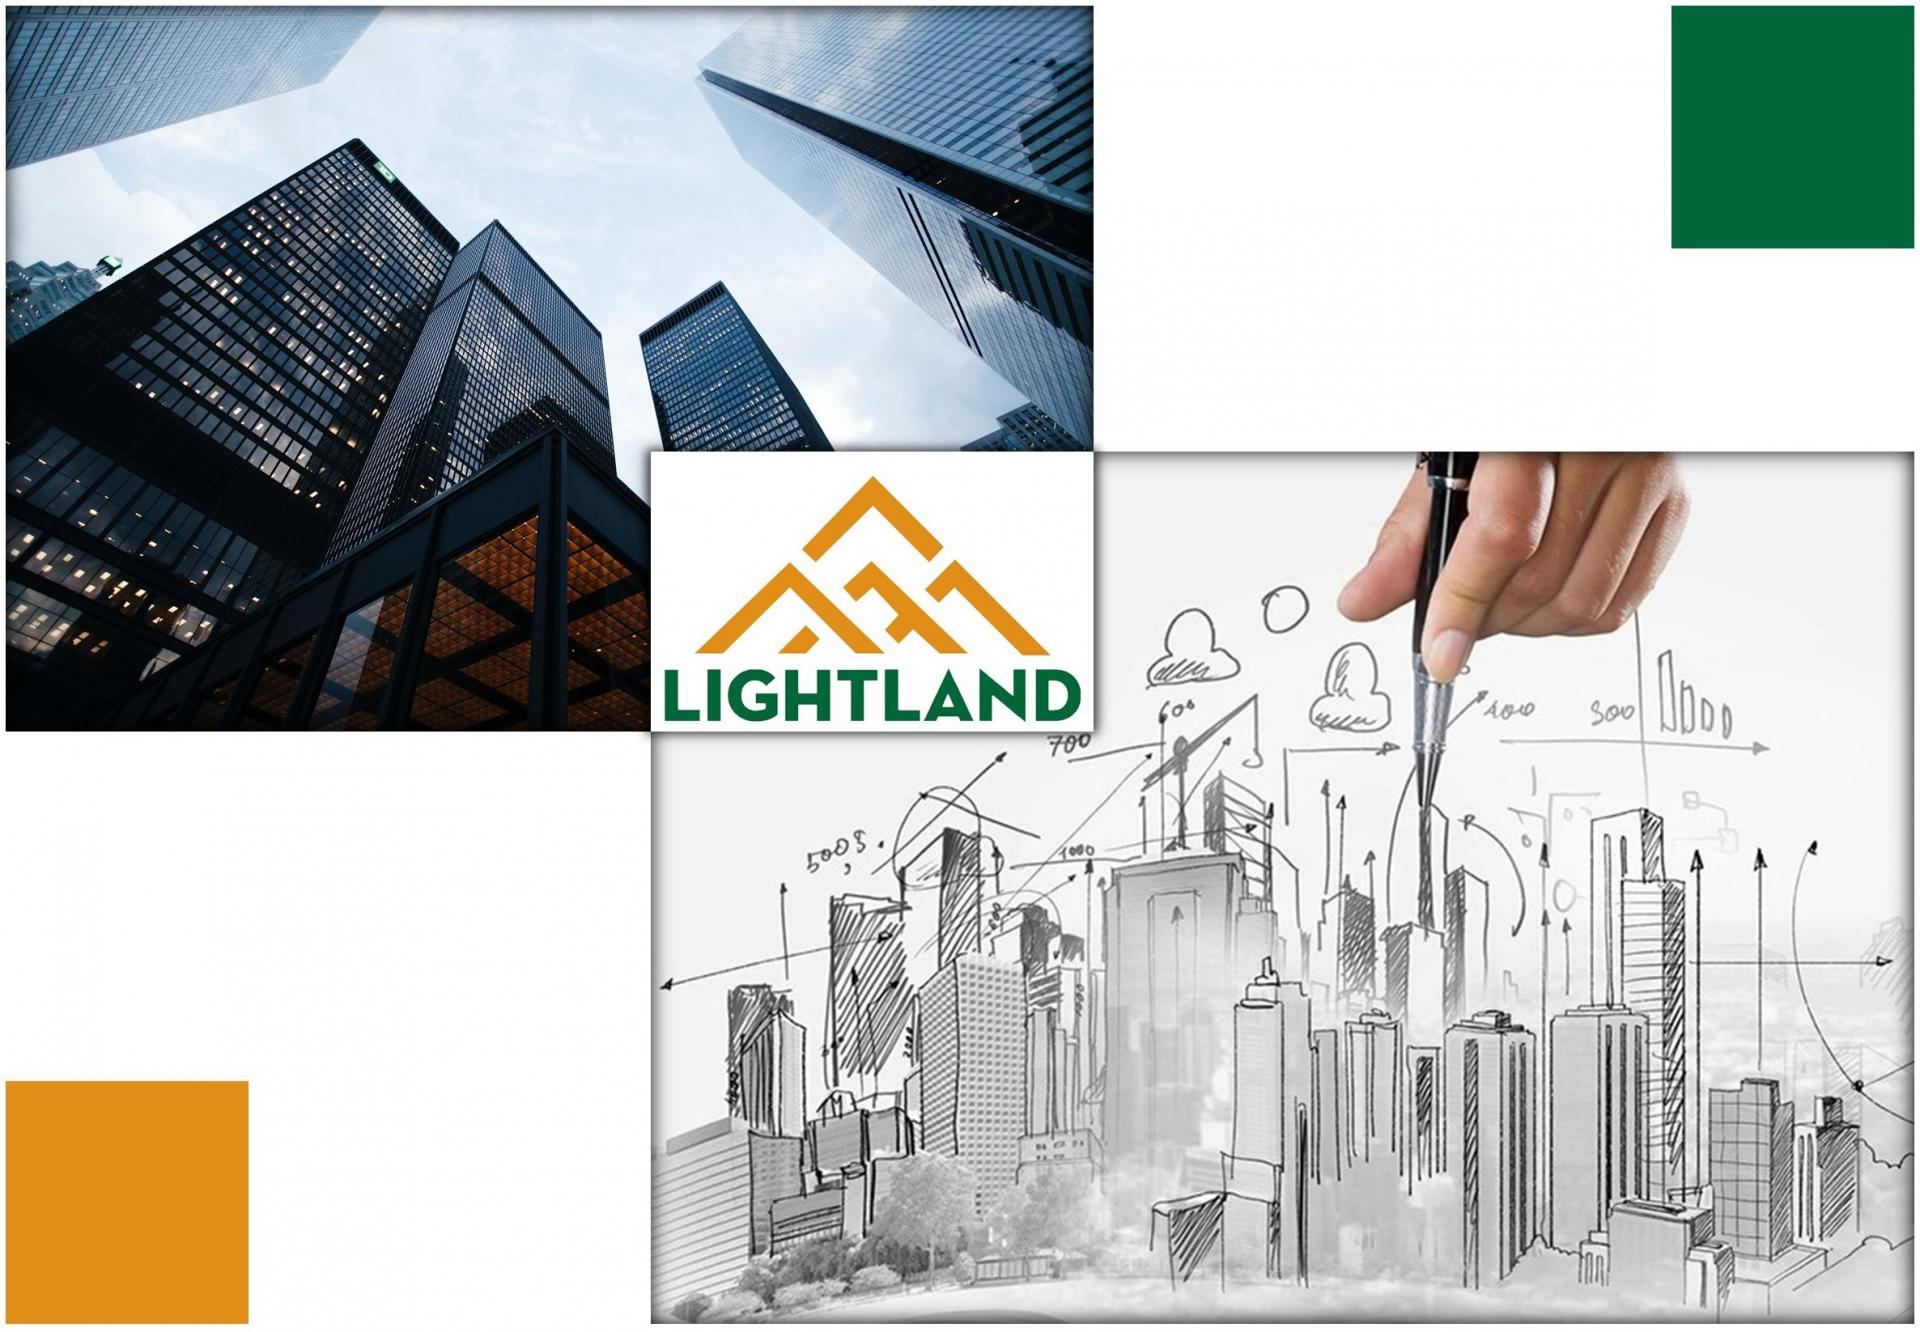
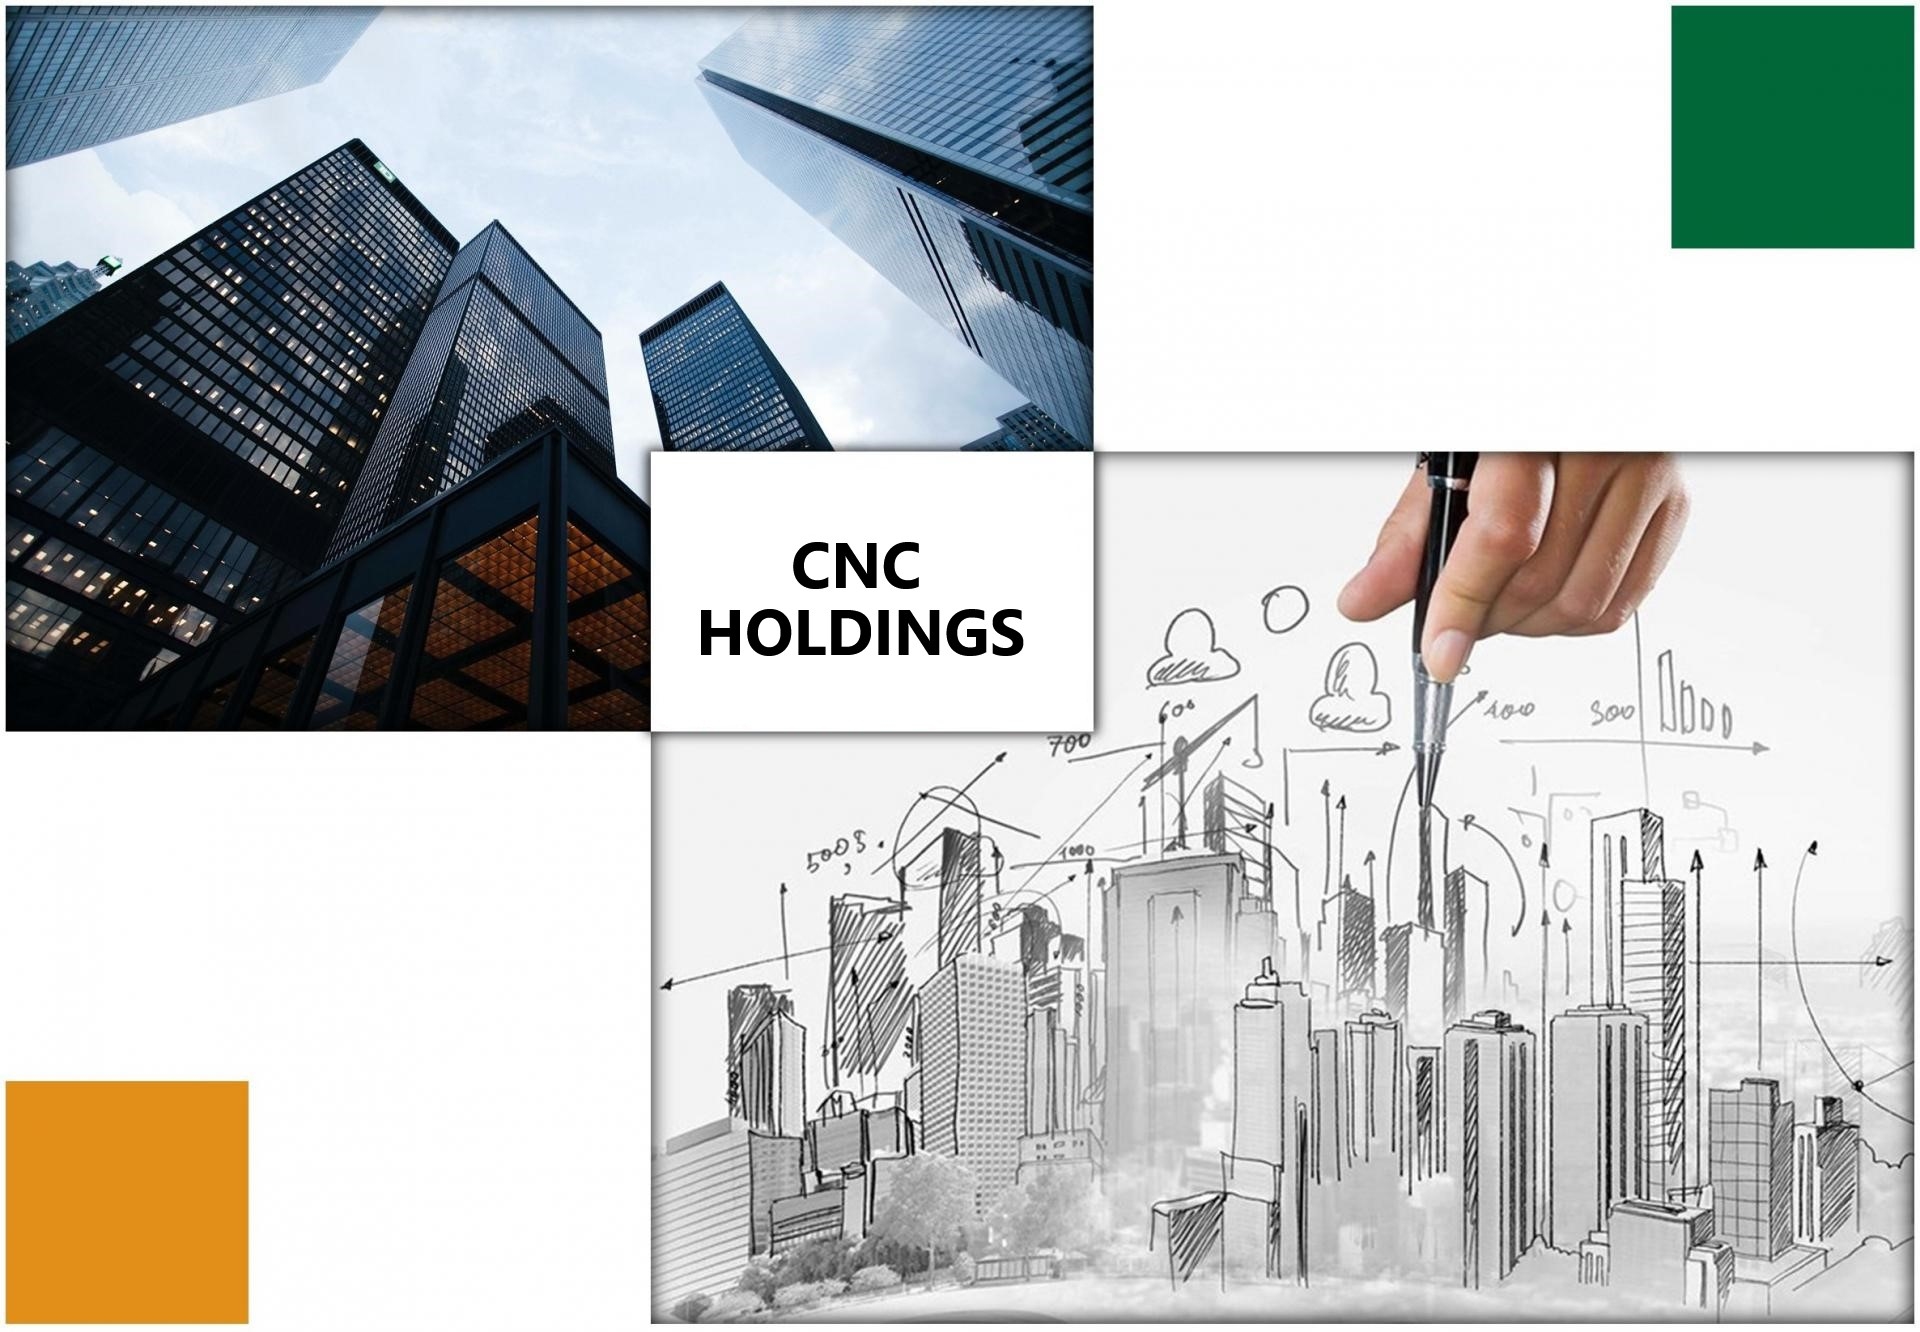
change image

Changed region(s): [[0.3438, 0.3386, 0.5625, 0.5541]]

diff --git a/cnc.vn/thong-diep/index.html b/cnc.vn/thong-diep/index.html
@@ -261,7 +261,7 @@
 						<p></p>
 					</div>
 					<div class="about-right">
-						<img src="../../cnc.web5v5.keyweb.vn/userdata/7347/wp-content/uploads/2020/07/presentation2-1.jpg"
+						<img src="../../cnc.web5v5.keyweb.vn/userdata/7347/wp-content/uploads/2020/07/thong_diep.jpg"
 							alt="">
 					</div>
 				</div>
